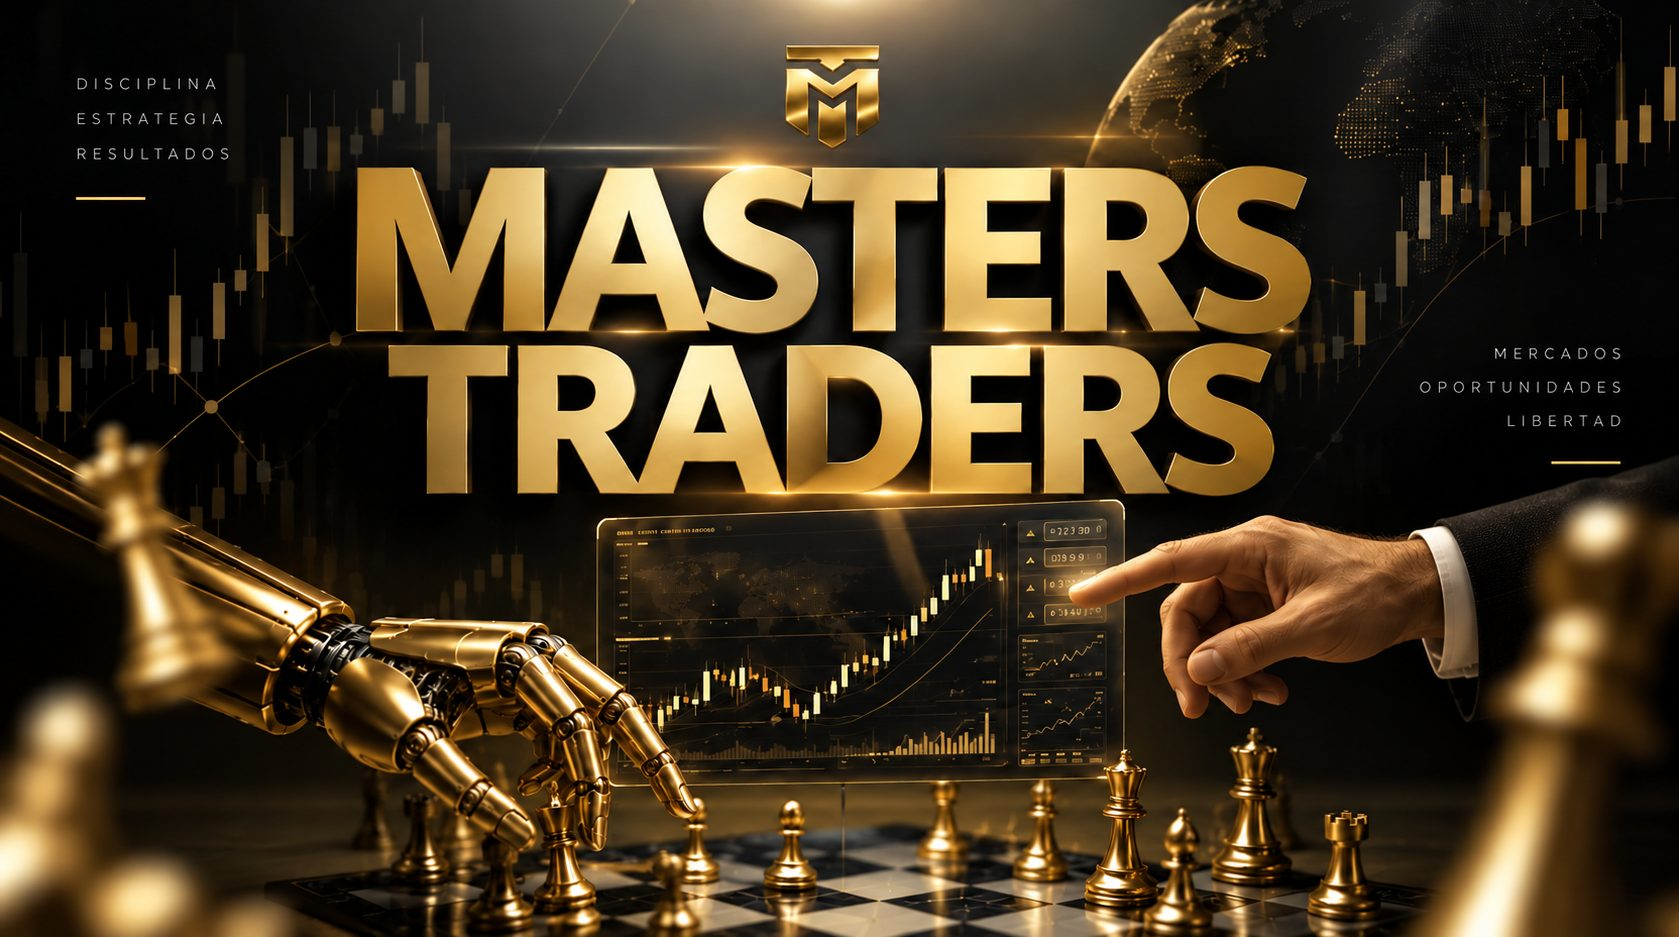
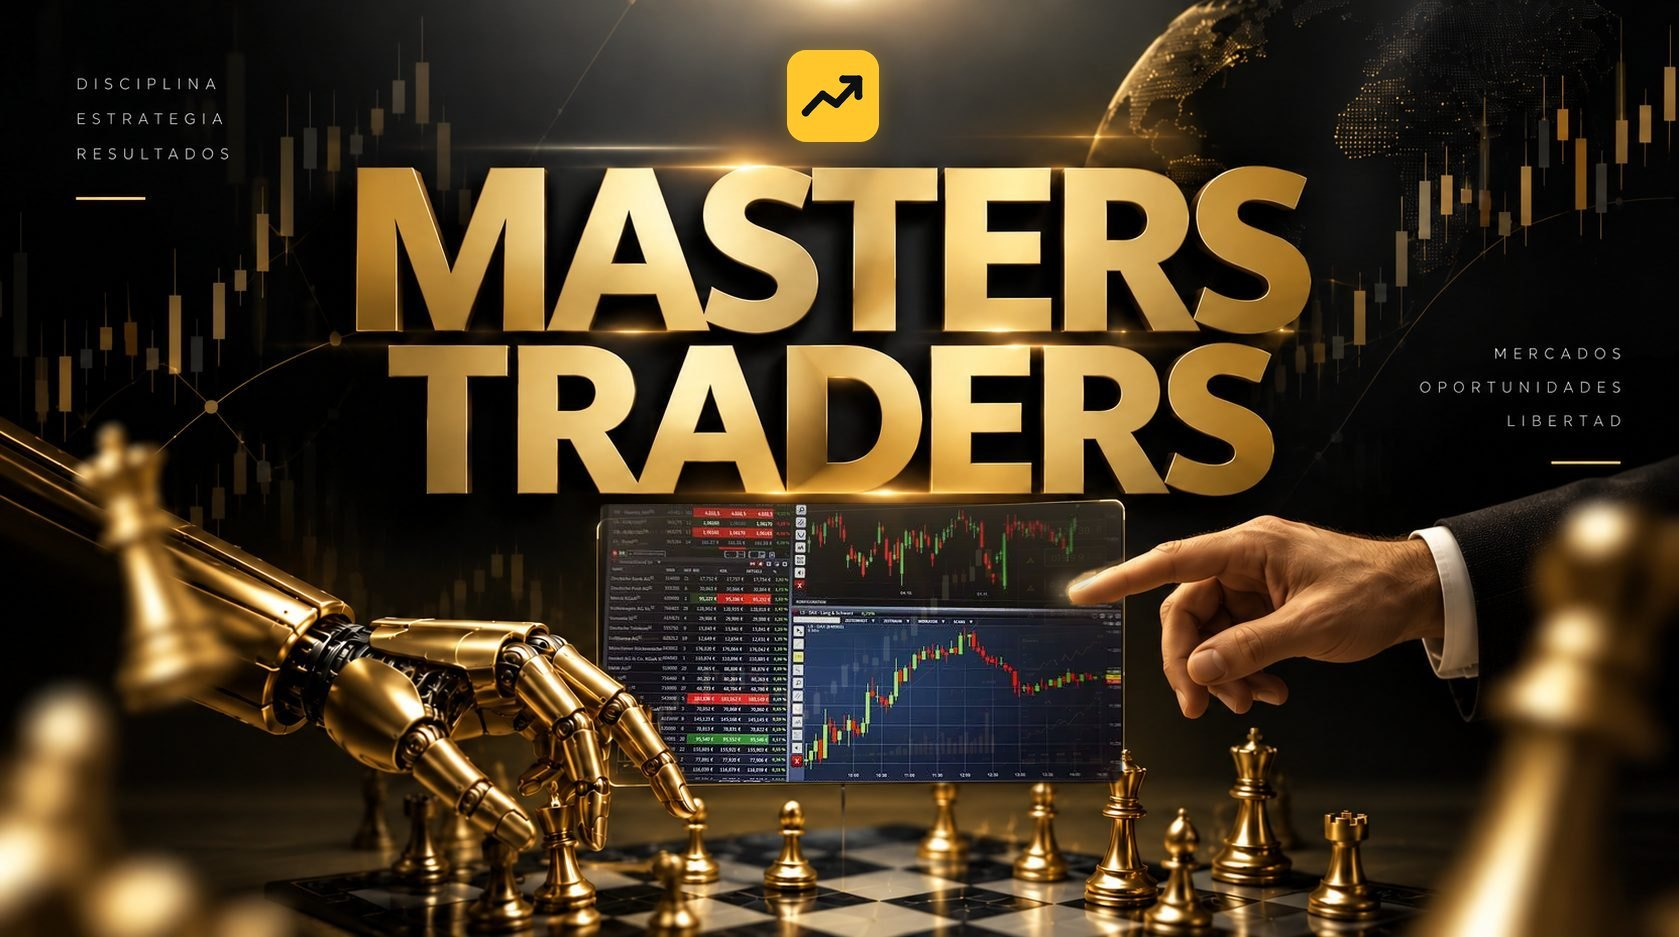
Rename to TradersFit, add loading counter and depth reveal, trim sections
- Name with the s everywhere (header, title, manifest, link preview, logo image)
- Preloader counts 0–100 % while the page loads; blocks then come from the back to the front on scroll
- Remove founder, membership, alliances, community and referral sections
- Add point 06: 12 bots tested and running
- Hero: TradersFit icon above the title and a new trading screen in the glass panel
- Final section: new photo instead of the door
- «Quiero empezar» buttons point to the Masters Traders Academy referral link

Changed region(s): [[0.3407, 0.5261, 0.6814, 0.8356], [0.4646, 0.0309, 0.5265, 0.1547]]

diff --git a/index.html b/index.html
@@ -3,20 +3,20 @@
 <head>
 <meta charset="utf-8">
 <meta name="viewport" content="width=device-width, initial-scale=1">
-<title>TraderFit — Masters Traders: formación, herramientas y comunidad de trading</title>
+<title>TradersFit — Masters Traders: formación, herramientas y comunidad de trading</title>
 <!-- Quitar esta línea cuando se publique en tradersfit.se -->
 <meta name="robots" content="noindex, nofollow">
 <meta name="description" content="Academia de trading de cero a avanzado, app con IA, señales, sesiones en vivo y bots en una sola membresía. Conoce Masters Traders.">
 <!-- Enlace de registro: pégalo aquí y todos los botones «Quiero empezar» lo usarán -->
-<meta name="registro" content="">
+<meta name="registro" content="https://masterstraders.academy/?mst_ref=Bjwcr2vu8P">
 <link rel="icon" href="assets/img/traderfit-icon.svg" type="image/svg+xml">
 <link rel="icon" href="assets/img/favicon.png" type="image/png">
 <link rel="apple-touch-icon" href="assets/img/apple-touch-icon.png">
 <link rel="manifest" href="site.webmanifest">
 <meta name="theme-color" content="#0e1013">
 <meta property="og:type" content="website">
-<meta property="og:site_name" content="TraderFit">
-<meta property="og:title" content="TraderFit — Formación, herramientas y comunidad de trading">
+<meta property="og:site_name" content="TradersFit">
+<meta property="og:title" content="TradersFit — Formación, herramientas y comunidad de trading">
 <meta property="og:description" content="Academia de trading de cero a avanzado, app con IA, señales, sesiones en vivo y bots en una sola membresía.">
 <meta property="og:image" content="https://tradersfit.se/assets/img/og-image.jpg">
 <meta name="twitter:card" content="summary_large_image">
@@ -24,19 +24,23 @@
 <link rel="preconnect" href="https://fonts.gstatic.com" crossorigin>
 <link href="https://fonts.googleapis.com/css2?family=Montserrat:wght@600;700;800&family=Inter:wght@400;500;600;800&display=swap" rel="stylesheet">
 <link rel="stylesheet" href="assets/styles.css">
+<!-- Pantalla de carga; si site.js no llegara a cargar, la página se muestra igual a los 10 s -->
+<script>document.documentElement.classList.add("is-loading");setTimeout(function(){document.documentElement.classList.remove("is-loading")},10000)</script>
 </head>
 <body>
+<div class="preloader" aria-hidden="true">
+  <img src="assets/img/traderfit-icon.svg" alt="" width="84" height="84">
+  <p class="preloader-count"><span id="preloader-num">0</span>%</p>
+  <div class="preloader-bar"><span id="preloader-bar"></span></div>
+</div>
 <header class="site-header">
   <div class="wrap header-row">
-    <a class="brand" href="#inicio" aria-label="TraderFit, inicio">
+    <a class="brand" href="#inicio" aria-label="TradersFit, inicio">
       <img src="assets/img/traderfit-icon.svg" alt="" width="36" height="36">
-      <span>Trader<b>Fit</b></span>
+      <span>Traders<b>Fit</b></span>
     </a>
     <nav class="nav" aria-label="Menú principal">
       <a href="#ecosistema">Ecosistema</a>
-      <a href="#fundador">Fundador</a>
-      <a href="#membresia">Membresía</a>
-      <a href="#referidos">Referidos</a>
     </nav>
     <a class="btn btn-gold btn-sm js-registro" href="#empezar">Quiero empezar</a>
   </div>
@@ -115,33 +119,14 @@
           <li><span class="num">03</span><div><h3>Señales</h3><p>Recibe las señales del mentor.</p></div></li>
           <li><span class="num">04</span><div><h3>Sesiones en vivo</h3><p>Con el mentor, cada día.</p></div></li>
           <li><span class="num">05</span><div><h3>EMABOT</h3><p>Trading automatizado que ejecuta operaciones según una estrategia predefinida. Eliges riesgo bajo, medio o alto y ajustas el lotaje a tu capital y tu perfil.</p></div></li>
+          <li><span class="num">06</span><div><h3>12 bots probados y funcionando</h3><p>Te permiten operar sin estar presente.</p></div></li>
         </ul>
       </div>
     </div>
   </section>
 
-  <section class="section section-alt" id="fundador">
-    <div class="wrap split">
-      <div>
-        <p class="eyebrow">Detrás de todo esto</p>
-        <h2>Emanuel Hernández</h2>
-        <p class="role">Fundador y mentor</p>
-        <ul class="bullets">
-          <li>Inversionista con más de <strong>15 años de experiencia</strong> en los mercados financieros.</li>
-          <li>Autor del libro <strong>«El Camino del Trader»</strong>, bestseller en Amazon.</li>
-          <li>Fundador de Masters Traders, una comunidad con <strong>más de 26.000 estudiantes</strong>.</li>
-          <li>Creó un ecosistema de herramientas con inteligencia artificial, entrenadas con años de experiencia real en los mercados.</li>
-          <li>Su misión: que cualquier persona tenga acceso a estrategias y tecnología de nivel profesional.</li>
-        </ul>
-      </div>
-      <picture class="split-img portrait">
-        <source srcset="assets/img/emanuel.webp" type="image/webp">
-        <img src="assets/img/emanuel.jpg" alt="Emanuel Hernández, fundador de Masters Traders" width="424" height="812" loading="lazy">
-      </picture>
-    </div>
-  </section>
 
-  <section class="section">
+  <section class="section section-alt">
     <div class="wrap">
       <p class="eyebrow">Masters Traders Academy</p>
       <h2>Más que una academia, una comunidad global</h2>
@@ -160,77 +145,9 @@
     </div>
   </section>
 
-  <section class="section section-alt" id="membresia">
-    <div class="wrap">
-      <p class="eyebrow">Una membresía, todo el ecosistema</p>
-      <h2>Todo en un solo lugar</h2>
-      <div class="pricing">
-        <div class="price-card">
-          <p class="price-label">Membresía Masters Traders</p>
-          <p class="price">$139 <span>USD</span></p>
-          <a class="btn btn-gold js-registro" href="#empezar">Invierte en tu formación</a>
-        </div>
-        <ul class="features features-plain">
-          <li><div><h3>Acceso completo</h3><p>Academia, app con IA, bots, señales y sesiones en vivo.</p></div></li>
-          <li><div><h3>Comunidad y networking</h3><p>Creces rodeado de gente que va hacia lo mismo.</p></div></li>
-          <li><div><h3>Plan de referidos</h3><p>Si recomiendas la membresía, puedes recibir comisiones que ayuden a cubrir su coste.</p></div></li>
-        </ul>
-      </div>
-    </div>
-  </section>
 
-  <section class="section">
-    <div class="wrap">
-      <p class="eyebrow">Alianzas estratégicas</p>
-      <h2>Operas en brokers regulados. Tu dinero nunca pasa por Masters Traders</h2>
-      <div class="cards cards-4">
-        <article class="card"><h3>Brokers de primer nivel</h3><p>Masters Traders trabaja con Exness, VexPro y Bridge Markets, entidades reguladas.</p></article>
-        <article class="card"><h3>Fondos protegidos</h3><p>Tu dinero está en tu cuenta del broker, a tu nombre.</p></article>
-        <article class="card"><h3>Ejecución rápida</h3><p>Tus órdenes entran al precio que ves, con condiciones institucionales.</p></article>
-        <article class="card"><h3>Tu capital, bajo tu control</h3><p>Depositas y retiras tú, directamente en el broker.</p></article>
-      </div>
-    </div>
-  </section>
 
-  <section class="section section-alt" id="comunidad">
-    <div class="wrap">
-      <p class="eyebrow">Comunidad</p>
-      <h2>Lo que comparten nuestros miembros</h2>
-      <picture>
-        <source srcset="assets/img/testimonios.webp" type="image/webp">
-        <img class="wide-img" src="assets/img/testimonios.jpg" alt="Capturas de operaciones y mensajes compartidos por miembros de la comunidad Masters Traders" width="1669" height="942" loading="lazy">
-      </picture>
-      <p class="note">Capturas compartidas por miembros. Son experiencias individuales: no representan resultados típicos ni garantizan resultados futuros.</p>
-    </div>
-  </section>
 
-  <section class="section" id="referidos">
-    <div class="wrap">
-      <p class="eyebrow">Plan de referidos</p>
-      <h2>Comisiones por cada persona activa en tu red</h2>
-      <p class="section-lead">Recibes una comisión por cada miembro activo, hasta 11 niveles de profundidad.</p>
-      <div class="levels">
-        <div class="level"><span>Nivel 1</span><strong>$30</strong></div>
-        <div class="level"><span>Niveles 2 y 3</span><strong>$10</strong></div>
-        <div class="level"><span>Niveles 4 y 5</span><strong>$5</strong></div>
-        <div class="level"><span>Niveles 6 y 7</span><strong>$3</strong></div>
-        <div class="level"><span>Niveles 8 a 11</span><strong>$1</strong></div>
-      </div>
-      <h3 class="sub">Rangos por comisiones acumuladas</h3>
-      <p class="section-lead">Según lo acumulado en tu año calificable (12 meses desde que abres tu backoffice).</p>
-      <div class="ranks">
-        <div><span>Junior</span><strong>$500</strong></div>
-        <div><span>Intermedio</span><strong>$1.500</strong></div>
-        <div><span>Avanzado</span><strong>$5.000</strong></div>
-        <div><span>Pro</span><strong>$10.000</strong></div>
-        <div><span>Senior Pro</span><strong>$25.000</strong></div>
-        <div><span>Doble Senior Pro</span><strong>$50.000</strong></div>
-        <div><span>Triple Senior Pro</span><strong>$100.000</strong></div>
-        <div><span>Presidencial</span><strong>$250.000</strong></div>
-      </div>
-      <p class="note">Importes en USD. Los ingresos dependen del trabajo de cada persona y no están garantizados.</p>
-    </div>
-  </section>
 
   <section class="section cta" id="empezar">
     <div class="wrap split">
@@ -240,8 +157,8 @@
         <a class="btn btn-gold btn-lg js-registro" href="#empezar">Quiero empezar</a>
       </div>
       <picture class="split-img">
-        <source srcset="assets/img/puerta.webp" type="image/webp">
-        <img src="assets/img/puerta.jpg" alt="Puerta dorada abierta con el logotipo de Masters Traders" width="630" height="790" loading="lazy">
+        <source srcset="assets/img/foto.webp" type="image/webp">
+        <img src="assets/img/foto.jpg" alt="Sonriente, con traje negro, delante de una pantalla con gráficos de trading" width="742" height="424" loading="lazy">
       </picture>
     </div>
   </section>
@@ -250,7 +167,7 @@
 <footer class="site-footer">
   <div class="wrap">
     <p class="risk"><strong>Aviso de riesgo:</strong> operar con divisas, CFD y otros productos apalancados conlleva un riesgo alto y puedes perder todo el capital invertido. Ninguna herramienta, señal ni bot garantiza resultados. Esta página es solo informativa y no constituye asesoramiento financiero.</p>
-    <p class="small">Página informativa independiente. Masters Traders y sus marcas pertenecen a sus respectivos propietarios. © <span id="year">2026</span> TraderFit · tradersfit.se</p>
+    <p class="small">Página informativa independiente. Masters Traders y sus marcas pertenecen a sus respectivos propietarios. © <span id="year">2026</span> TradersFit · tradersfit.se</p>
   </div>
 </footer>
 <script src="assets/site.js" defer></script>

diff --git a/assets/site.js b/assets/site.js
@@ -1,5 +1,83 @@
 document.getElementById("year").textContent = new Date().getFullYear();
 
+// Depth reveal: each block comes from the back to the front as it enters the screen; siblings follow one after another
+(() => {
+  if (!("IntersectionObserver" in window)) return;
+  const targets = document.querySelectorAll(
+    ".hero-text > *, main .eyebrow, main h2, .role, .section-lead, .questions li, .card, .features li, .bullets li, .split-img, .cta .btn"
+  );
+  const observer = new IntersectionObserver((entries) => {
+    for (const entry of entries) {
+      if (!entry.isIntersecting) continue;
+      entry.target.classList.add("is-in");
+      observer.unobserve(entry.target);
+    }
+  }, { rootMargin: "0px 0px -8% 0px" });
+  for (const el of targets) {
+    const siblings = [...el.parentElement.children].filter((s) => s.matches(".card, .features li, .questions li, .bullets li, .hero-text > *"));
+    const i = siblings.indexOf(el);
+    if (i > 0) el.style.setProperty("--d", Math.min(i, 6) * 0.12 + "s");
+    el.classList.add("reveal");
+    observer.observe(el);
+  }
+})();
+
+// Preloader: the counter follows the images that load up front and reaches 100 % when the page is complete
+(() => {
+  const root = document.documentElement;
+  const preloader = document.querySelector(".preloader");
+  if (!preloader || !root.classList.contains("is-loading")) return;
+  // Always start at the top so the hero entrance is seen, unless the link points to a section
+  if (!location.hash) {
+    history.scrollRestoration = "manual";
+    scrollTo(0, 0);
+  }
+  const num = document.getElementById("preloader-num");
+  const bar = document.getElementById("preloader-bar");
+  const reduced = matchMedia("(prefers-reduced-motion: reduce)").matches;
+  const minTime = reduced ? 0 : 1400; // long enough to see the count, even when everything is cached
+  const start = performance.now();
+
+  const images = [...document.images].filter((img) => img.loading !== "lazy");
+  let loaded = 0;
+  let pageDone = false;
+  let shown = 0;
+  for (const img of images) {
+    if (img.complete) { loaded++; continue; }
+    const count = () => {
+      loaded++;
+      img.removeEventListener("load", count);
+      img.removeEventListener("error", count);
+    };
+    img.addEventListener("load", count);
+    img.addEventListener("error", count);
+  }
+
+  const finish = () => {
+    root.classList.remove("is-loading");
+    root.classList.add("is-ready");
+    preloader.classList.add("is-done");
+  };
+
+  const tick = (now) => {
+    const real = pageDone ? 1 : 0.9 * (images.length ? loaded / images.length : 1);
+    const time = minTime ? Math.min(1, (now - start) / minTime) : 1;
+    // Never runs ahead of what has really loaded, nor faster than the minimum time
+    const target = Math.min(real, time) * 100;
+    shown += Math.max(0.6, (target - shown) * 0.12);
+    shown = Math.min(shown, target);
+    num.textContent = Math.floor(shown);
+    bar.style.width = shown + "%";
+    if (shown >= 100) setTimeout(finish, 250);
+    else requestAnimationFrame(tick);
+  };
+
+  if (document.readyState === "complete") pageDone = true;
+  else addEventListener("load", () => (pageDone = true), { once: true });
+  setTimeout(() => (pageDone = true), 8000); // never keep the page hidden on a slow connection
+  requestAnimationFrame(tick);
+})();
+
 // Every «Quiero empezar» button opens the registration link set in <meta name="registro">
 const registro = document.querySelector('meta[name="registro"]')?.content.trim();
 if (registro) {

diff --git a/assets/styles.css b/assets/styles.css
@@ -31,6 +31,31 @@ strong { color: var(--gold-light); font-weight: 600; }
 .section-lead, .lead { color: var(--muted); font-size: 1.08rem; max-width: 62ch; margin: 0 0 28px; }
 .lead { font-size: 1.15rem; }
 
+/* Preloader: counts 0–100 % while the page loads, then fades out */
+.preloader { display: none; }
+.is-loading body { overflow: hidden; }
+.is-loading .preloader, .preloader.is-done { position: fixed; inset: 0; z-index: 100; display: flex; flex-direction: column; align-items: center; justify-content: center; gap: 18px; background: var(--bg); }
+.preloader.is-done { opacity: 0; visibility: hidden; transition: opacity .6s ease, visibility 0s .6s; }
+.preloader img { width: 84px; height: 84px; border-radius: 18px; animation: preloader-pulse 1.6s ease-in-out infinite; }
+.preloader-count { margin: 0; font: 800 clamp(2.6rem, 9vw, 4.2rem)/1 var(--head); color: var(--gold-light); font-variant-numeric: tabular-nums; }
+.preloader-bar { width: min(240px, 60vw); height: 3px; border-radius: 3px; background: var(--line); overflow: hidden; }
+.preloader-bar span { display: block; height: 100%; width: 0; background: linear-gradient(90deg, var(--gold-dark), var(--gold-light)); }
+@keyframes preloader-pulse { 50% { transform: scale(1.06); } }
+@media (prefers-reduced-motion: reduce) { .preloader img { animation: none; } }
+
+/* Depth reveal: blocks come from the back to the front (site.js adds .reveal and .is-in) */
+.reveal { opacity: 0; transform: perspective(900px) translate3d(0, 24px, -220px); filter: blur(6px); transition: opacity .9s ease, transform 1.1s cubic-bezier(.16, 1, .3, 1), filter .9s ease; transition-delay: var(--d, 0s); }
+.reveal.is-in { opacity: 1; transform: none; filter: none; }
+.is-loading .reveal.is-in { opacity: 0; transform: perspective(900px) translate3d(0, 24px, -220px); filter: blur(6px); } /* wait behind the counter */
+.hero { overflow: hidden; }
+.is-ready .hero-img { animation: hero-in 1.6s cubic-bezier(.16, 1, .3, 1) both, hero-push 24s 1.6s ease-out forwards; }
+@keyframes hero-in { from { opacity: 0; transform: scale(.82); filter: blur(10px); } to { opacity: 1; transform: scale(1); filter: none; } }
+@keyframes hero-push { to { transform: scale(1.1); } }
+@media (prefers-reduced-motion: reduce) {
+  .reveal { opacity: 1; transform: none; filter: none; transition: none; }
+  .is-ready .hero-img { animation: none; }
+}
+
 /* Buttons */
 .btn { display: inline-flex; align-items: center; justify-content: center; gap: 8px; padding: 14px 26px; border-radius: 999px; font: 700 .95rem/1 var(--head); text-decoration: none; transition: transform .15s, box-shadow .15s, background .15s; }
 .btn-gold { background: linear-gradient(135deg, var(--gold-light), var(--gold) 55%, var(--gold-dark)); color: #1a1405; box-shadow: 0 6px 24px rgba(217, 176, 86, .25); }
